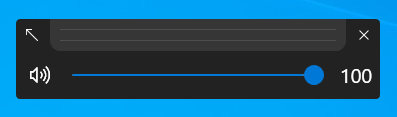
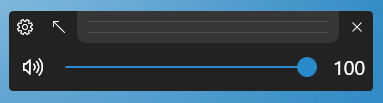
Update README.md and screenshots

diff --git a/ModernFlyouts/Controls/SessionControl.xaml b/ModernFlyouts/Controls/SessionControl.xaml
@@ -89,7 +89,7 @@
                         <ui:ProgressBar x:Name="TimeBar" Grid.Column="1"/>
                         <TextBlock x:Name="EndTimeBlock" Margin="5,0" Grid.Column="2" Text="00:00:00"/>
                     </Grid>
-                    <StackPanel x:Name="AdditionalControls" Orientation="Horizontal" Margin="0, 2">
+                    <StackPanel x:Name="AdditionalControls" Orientation="Horizontal" Margin="4, 2">
                         <ToggleButton x:Name="ShuffleButton" ToolTip="Shuffle: off" Margin="2,0" Width="40">
                             <ui:FontIcon Glyph="{x:Static util:CommonGlyphs.Shuffle}" FontSize="16.0"/>
                         </ToggleButton>

diff --git a/README.md b/README.md
@@ -5,28 +5,42 @@
 
 ![Audio_Dark](docs/images/Audio_Dark.png)
 
+_With TopBar_
+
+![Audio_Dark_NoTop](docs/images/Audio_Dark_NoTop.png)
+
+_Without TopBar_
+
 **Light Theme :** 
 
 ![Audio_Light](docs/images/Audio_Light.png)
+
+_With TopBar_
+
+![Audio_Light_NoTop](docs/images/Audio_Dark_NoTop.png)
+
+_Without TopBar_
 
 **Default one**
 
 ![Audio_Old](docs/images/Audio_Old.png)
 
-This application will replace the default audio/airplane flyouts found in Windows shown when the volume changes or when airplane mode key is pressed.
+This application will replace the default audio/airplane/brightness flyouts found in Windows shown when the volume or brightness changes or when airplane mode key is pressed.
 
-This project is based on [ADeltaX/AudioFlyout](https://github.com/ADeltaX/AudioFlyout). I have implemented airplane mode flyout as an addition. I have also added a flyout for lock keys (caps lock, scroll lock & num lock).
+This project is based on [ADeltaX/AudioFlyout](https://github.com/ADeltaX/AudioFlyout). I have implemented airplane mode and brightness (incomplete) flyout as an addition. I have also added a flyout for lock keys (caps lock, scroll lock & num lock).
 
 > Note : The native flyout is not permanently closed but will be hidden when this flyout is shown
-> Thus, only audio/airplane-mode flyouts will replace the old one. For **Brightness flyout** the old one is shown.
+> Thus, only audio/airplane-mode flyouts will replace the old one. **Brightness flyout** is incomplete and may not work on all devices.
 
 ## Features (new ones compared to [ADeltaX/AudioFlyout](https://github.com/ADeltaX/AudioFlyout).)
-- Follows system Light/Dark theme (the theme that taskbar has and not **App Theme**)
-- AirplaneMode-flyout Module
-- LockKeys-flyout Module
-- Note : **Brightness flyout** is not yet implemented and will show the existing one in Windows
+- Follows system Light/Dark theme (the theme that taskbar has and not **App Theme**).
+- SMTC has new controls such as **Shuffle**, **Repeat**, **Stop** and **Timeline Info**
+- AirplaneMode-flyout Module.
+- LockKeys-flyout Module.
+- Note : **Brightness flyout** is not yet fully implemented and may not work on all devices.
 - Each Module can be disabled separately.
 - Can Choose either Windows Default Flyout, ModernFlyouts or None.
+- Flyout's TopBar can be hidden.
 - Flyout is **Draggable**
 - Flyout can **aligned to default position**
 - **Slide Animation** when hide & showing
@@ -35,7 +49,6 @@ This project is based on [ADeltaX/AudioFlyout](https://github.com/ADeltaX/AudioF
 
 ## Disadvantages compared to [ADeltaX/AudioFlyout](https://github.com/ADeltaX/AudioFlyout).
 - Flyout can't be shown in **LockScreen** and above **TaskManager**, since UIAccess is not taken into account from the beginning.
-- No flyout to control **Brightness** due to technical difficulties (can't find the perfect API that works for every laptop device, there are multiple APIs such as `WmiMonitorBrightnessMethods` and `SetDeviceGammaRamp`, can't find the trigger method to show the flyout 😅) and is planned for later.
 - No **Acrylic** backdrop (will cost animation so ...)
 
 ## IMPORTANT NOTE :
@@ -45,22 +58,42 @@ Hey @ADeltaX, I respect you man 😙. I could have made changes to the original 
 This project depends on : 
 - [NAudio](https://github.com/naudio/NAudio)
 - [ModernWpf](https://github.com/Kinnara/ModernWpf) (That's how I got the name **Modern**Flyout)
-- Hardcodet.NotifyIcon.Wpf
+- [Hardcodet.NotifyIcon.Wpf](https://github.com/hardcodet/wpf-notifyicon)
 
 ## Screenshots
 
+**SMTC audio playback session**
+
+![Audio_Session_Music_NoTop](docs/images/Audio_Session_Music_NoTop.png)
+
+**SMTC audio playback session with additional info**
+
+![Audio_Session_Music_NoTop_More](docs/images/Audio_Session_Music_NoTop_More.png)
+
 **Fallback thumbnail for music playback with no album art**
 
-![Audio_Session_Music_NoAlbumArt](docs/images/Audio_Session_Music_NoAlbumArt.png)
+![Audio_Session_Music_NoTop_NoAlbumArt](docs/images/Audio_Session_Music_NoTop_NoAlbumArt.png)
 
-**Fallback thumbnail for video playback with no thumbnail**
+**SMTC video playback session with additional info**
 
-![Audio_Session_Video_NoThumbnail](docs/images/Audio_Session_Video_NoThumbnail.png)
+![Audio_Session_Video](docs/images/Audio_Session_Video.png)
 
 **Airplane-Mode Flyout**
 
 ![Airplane_On_Light](docs/images/Airplane_On_Light.png)
 
+_With TopBar_
+
+![Airplane_On_Light_NoTop](docs/images/Airplane_On_Light_NoTop.png)
+
+_Without TopBar_
+
 **Lock key flyout**
 
 ![LockKey_Caps_Light](docs/images/LockKey_Caps_Light.png)
+
+_With TopBar_
+
+![LockKey_Caps_Light_NoTop](docs/images/LockKey_Caps_Light_NoTop.png)
+
+_Without TopBar_
